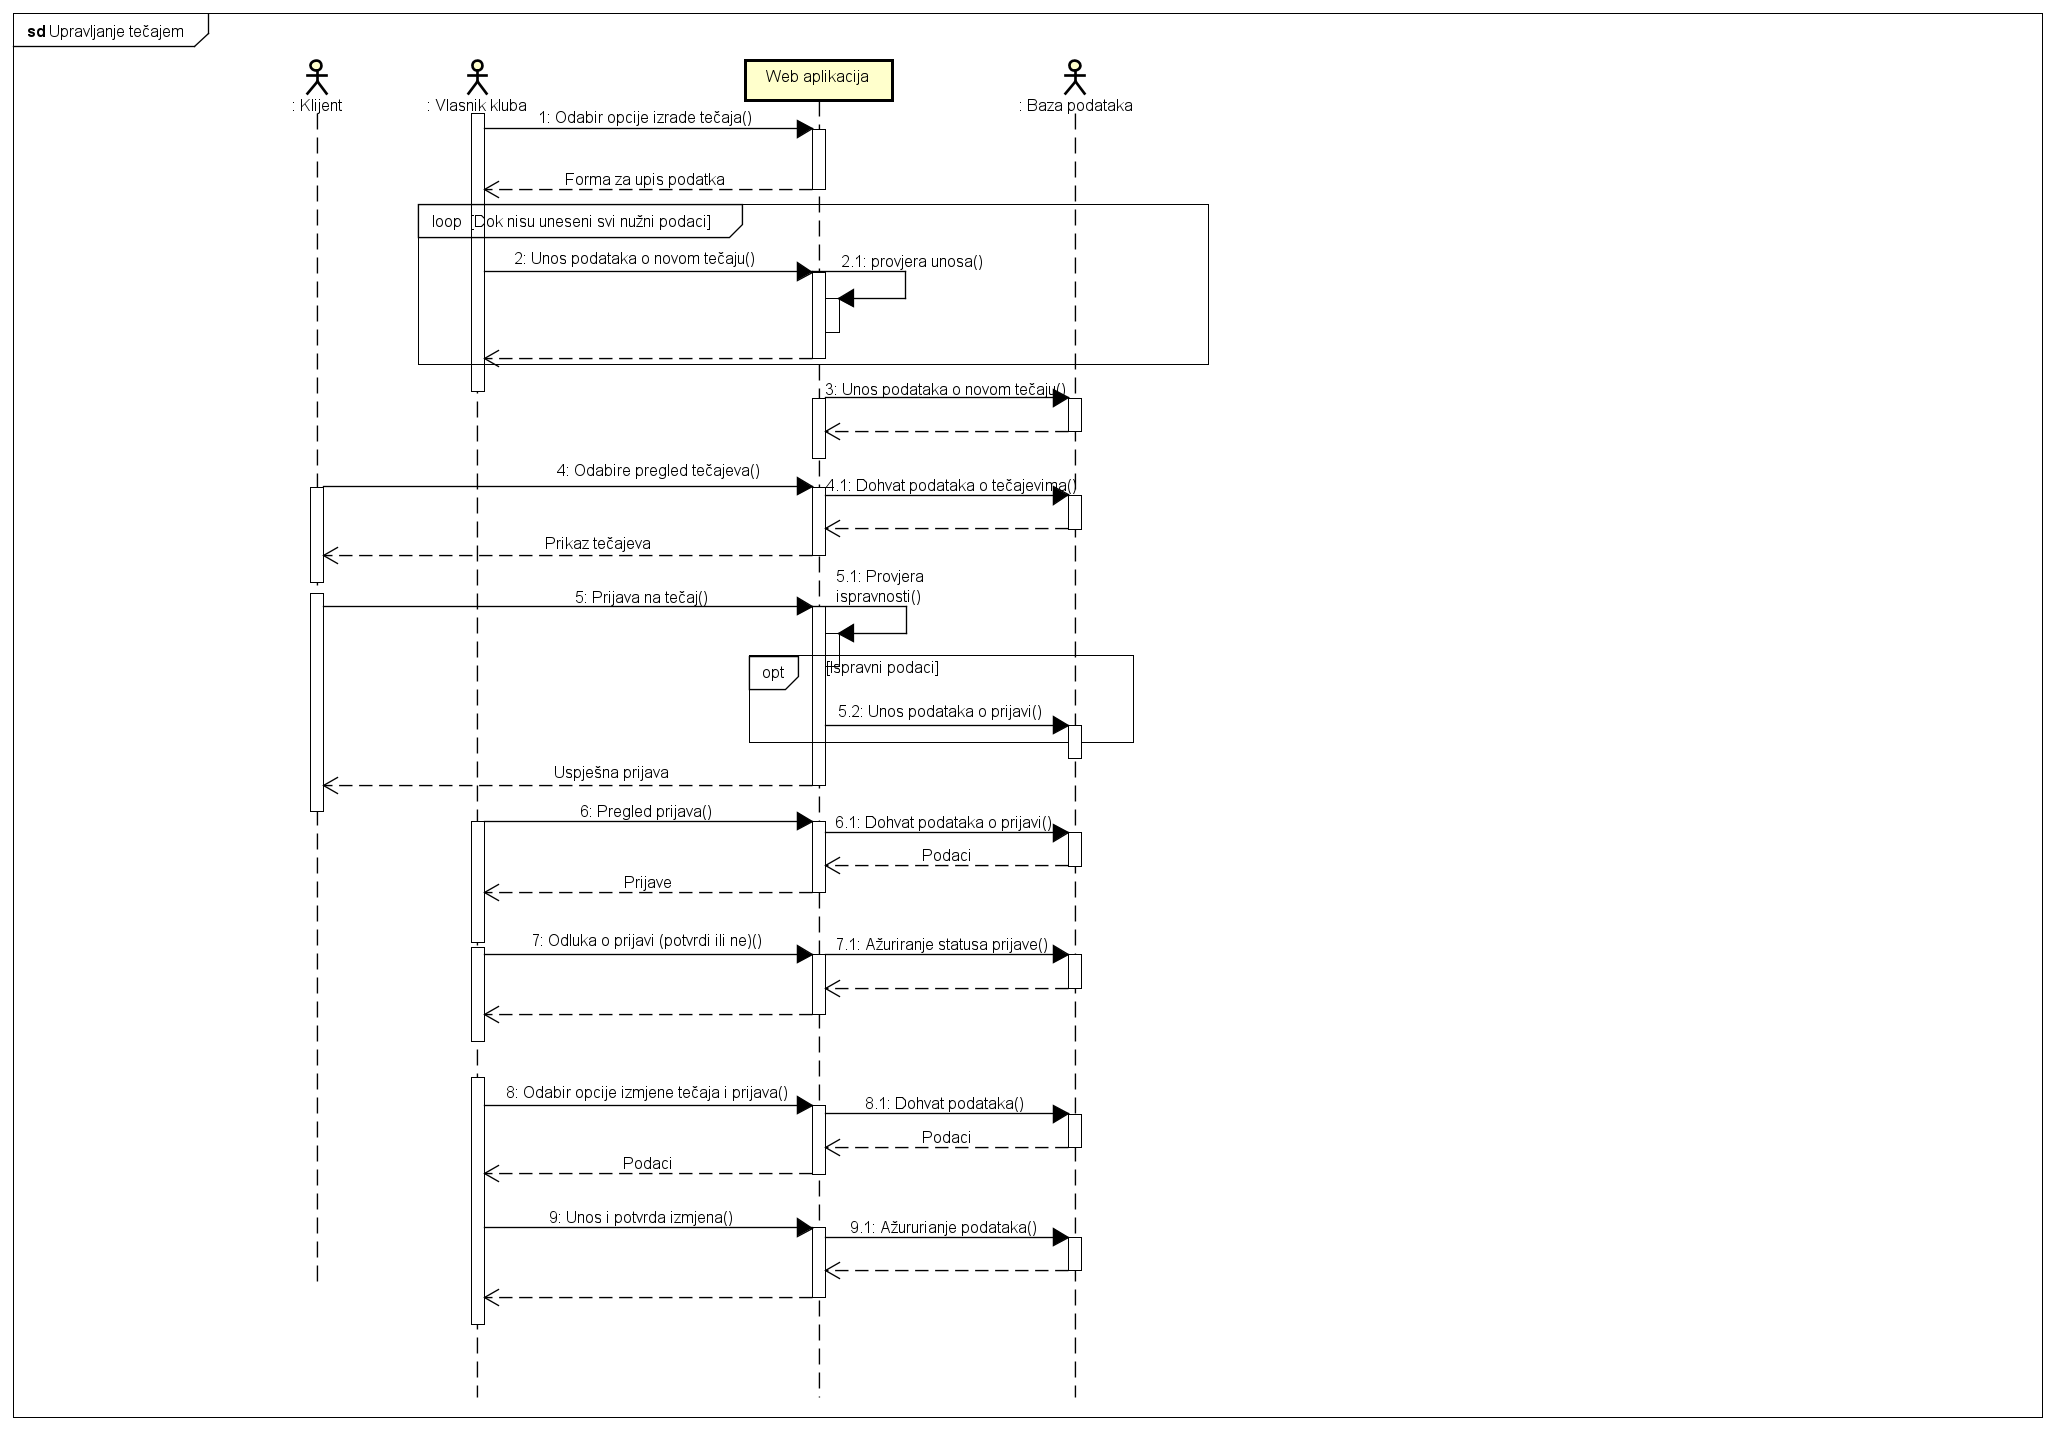
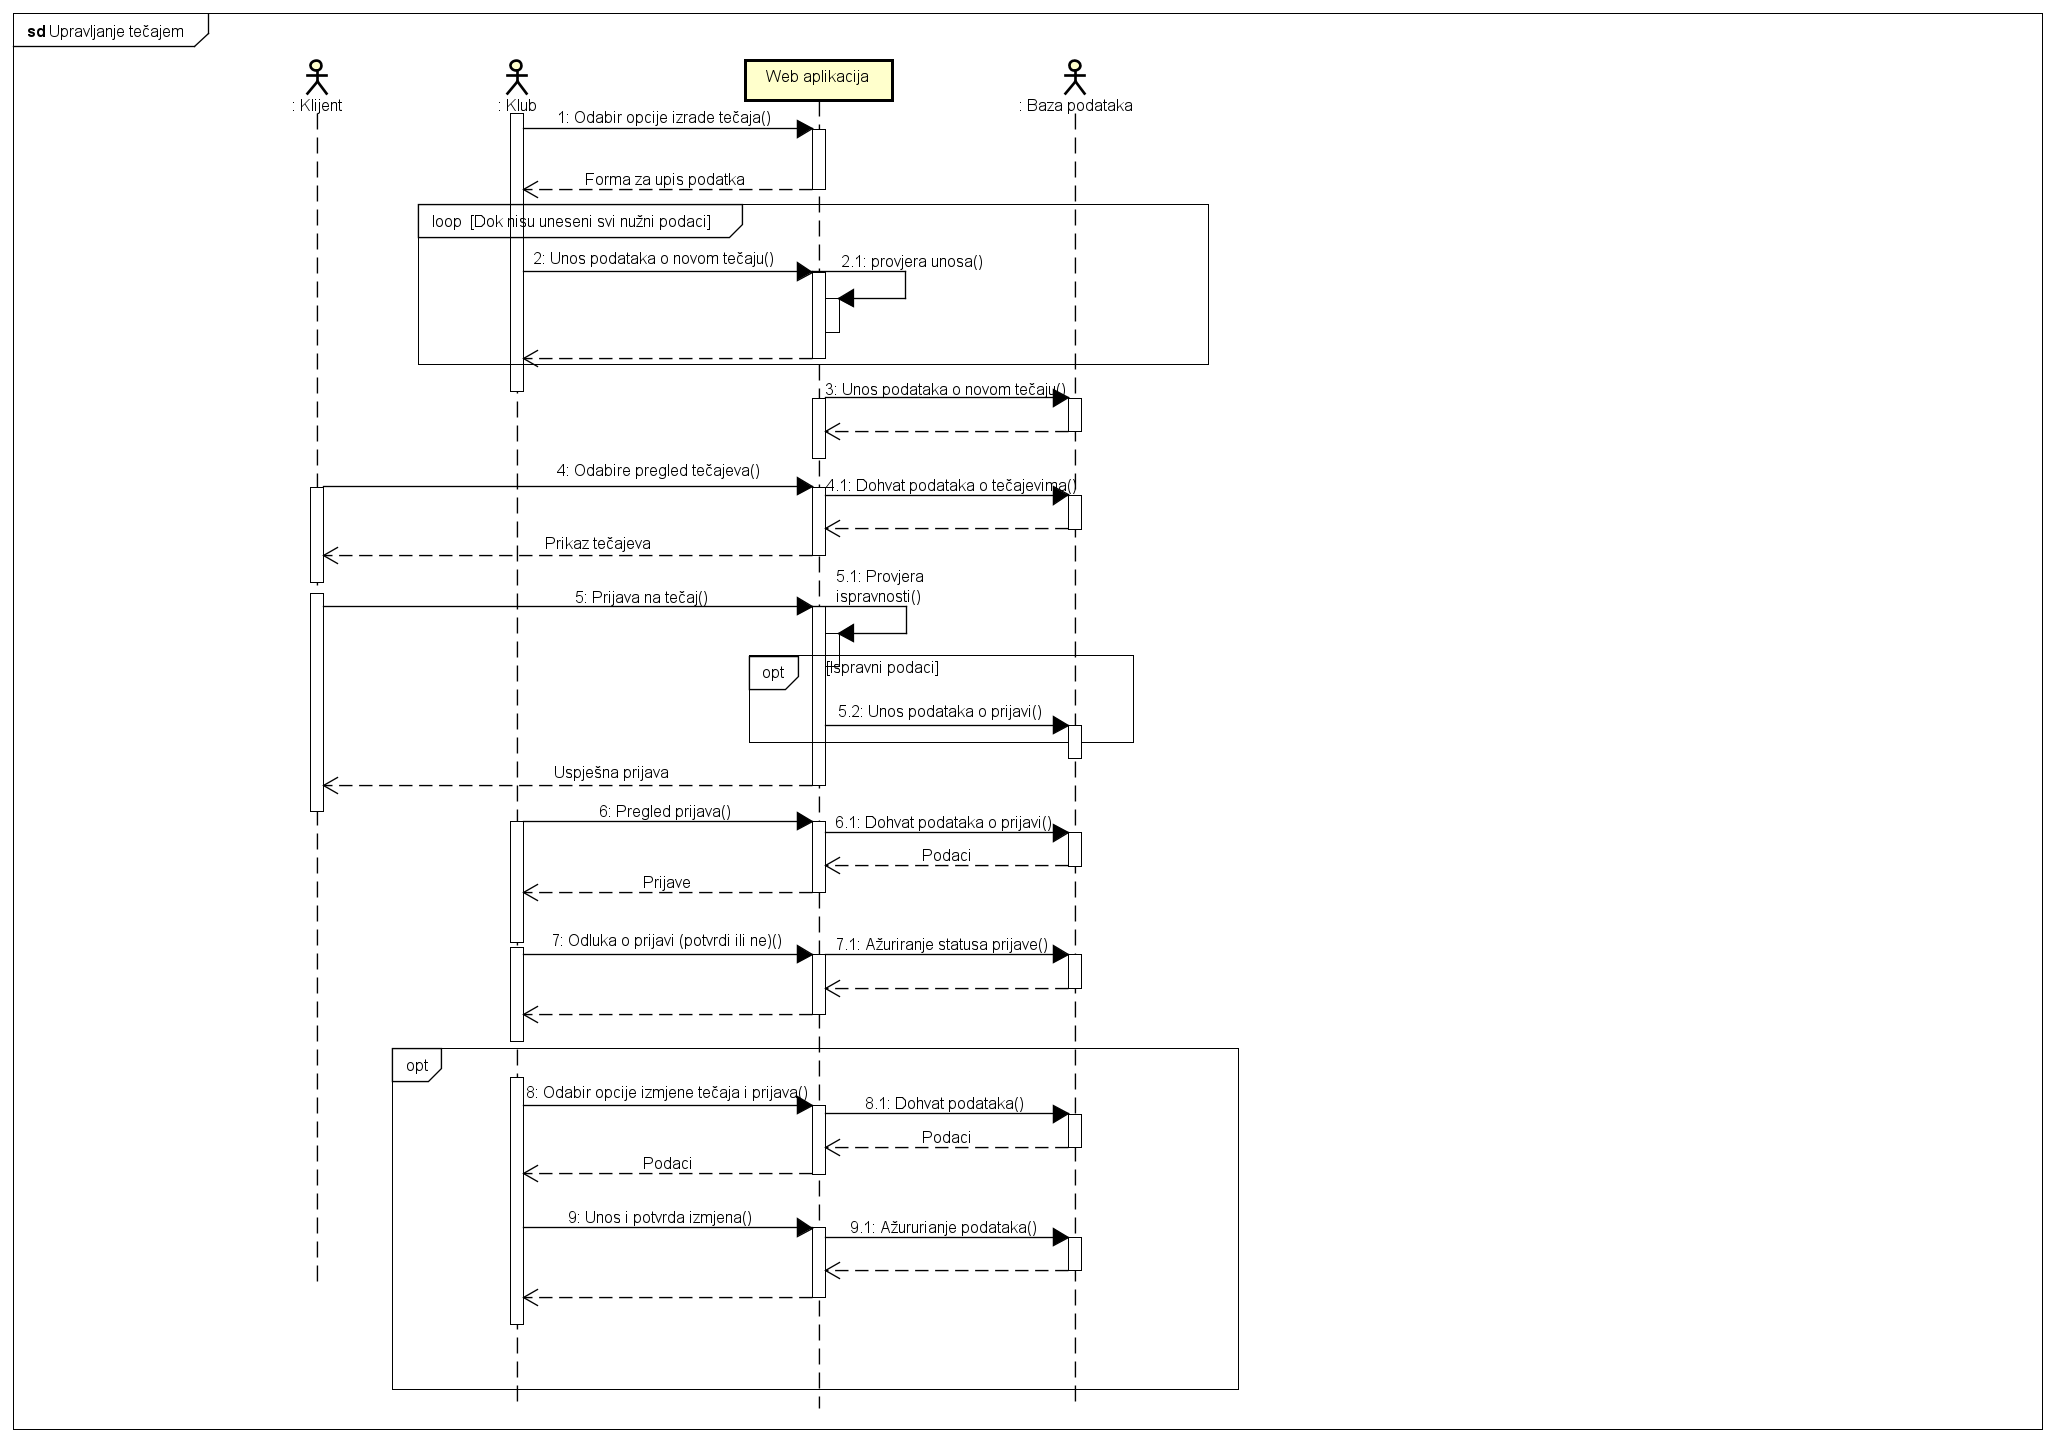
updated sequence diagrams

diff --git a/documentation/Dodatak.tex b/documentation/Dodatak.tex
@@ -160,16 +160,16 @@
 					rowhead = 1,
 				} 
 				\multicolumn{1}{c|}{} & \multicolumn{1}{c|}{\rotatebox{90}{\textbf{Mateja Golec}}} & \multicolumn{1}{c|}{\rotatebox{90}{\textbf{Karlo Boroš }}} &	\multicolumn{1}{c|}{\rotatebox{90}{\textbf{Luka Nola}}} & \multicolumn{1}{c|}{\rotatebox{90}{\textbf{Ana Vrabec}}} &	\multicolumn{1}{c|}{\rotatebox{90}{\textbf{Lucija Domić}}} & \multicolumn{1}{c|}{\rotatebox{90}{\textbf{Nina Đurić}}} &	\multicolumn{1}{c|}{\rotatebox{90}{\textbf{Lara Đaković}}} \\  
-				Upravljanje projektom 		&  &  &  &  &  &  & 14h\\ 
+				Upravljanje projektom 		&15h  &  &  &  &  &  & 14h\\ 
 				Opis projektnog zadatka 	&  &  &  &  &  &  & \\ 
 				
-				Funkcionalni zahtjevi       &  &  &  &  &  &  &  \\ 
+				Funkcionalni zahtjevi       &3h  &  &  &  &  &  &  \\ 
 				Opis pojedinih obrazaca 	&  &  &  &  &  &  & 7h \\ 
 				Dijagram obrazaca 			&  &  &  &  &  &  & 4h \\ 
-				Sekvencijski dijagrami 		&  &  &  &  &  &  &  \\ 
+				Sekvencijski dijagrami 		&4h  &  &  &  &  &  &  \\ 
 				Opis ostalih zahtjeva 		&  &  &  &  &  &  &  \\ 
 
-				Arhitektura i dizajn sustava	 &  &  &  &  &  &  &  \\ 
+				Arhitektura i dizajn sustava	 &3h  &  &  &  &  &  &  \\ 
 				Baza podataka				&  &  &  &  &  &  & 5h  \\ 
 				Dijagram razreda 			&  &  &  &  &  &  &  5h \\ 
 				Dijagram stanja				&  &  &  &  &  &  &  \\ 

diff --git a/documentation/Dnevnik_promjena_dokumentacije.tex b/documentation/Dnevnik_promjena_dokumentacije.tex
@@ -24,7 +24,8 @@
 			0.10 & Dodan opis baze podataka i opis tablica Tecaj, Ples, Lokacija, PlesnjakPles i Trening & Lara Đaković & 7.11.2022. \\[3pt] \hline 	
 			0.11. & Dodani sekvencijski dijagrami Upravljanje tečajem i Upravljanje plesovima & Nina Đurić & 9.11.2022. \\[3pt] \hline
 			0.12 & Dodani ostali zahtjevi & Ana Vrabec & 9.11.2022. \\[3pt] \hline
-			0.13 & Dodani opisi tablica za Klub, Korisnik, TrenerPrijava, Plesnjak, KorisnikTecaj & Karlo Boroš & 9.11.2022. \\[3pt] \hline	
+			0.13 & Dodani opisi tablica za Klub, Korisnik, TrenerPrijava, Plesnjak, KorisnikTecaj & Karlo Boroš & 9.11.2022. \\[3pt] \hline
+			0.14 & Promjena sekvencijskih dijagrama Prijava trenera i Upravljanje tečajem & Mateja Golec & 16.11.2022. \\[3pt] \hline	
 			\textbf{1.0} & Verzija samo s bitnim dijelovima za 1. ciklus & * & 18.11.2022. \\[3pt] \hline 
 			
 		\end{longtblr}
